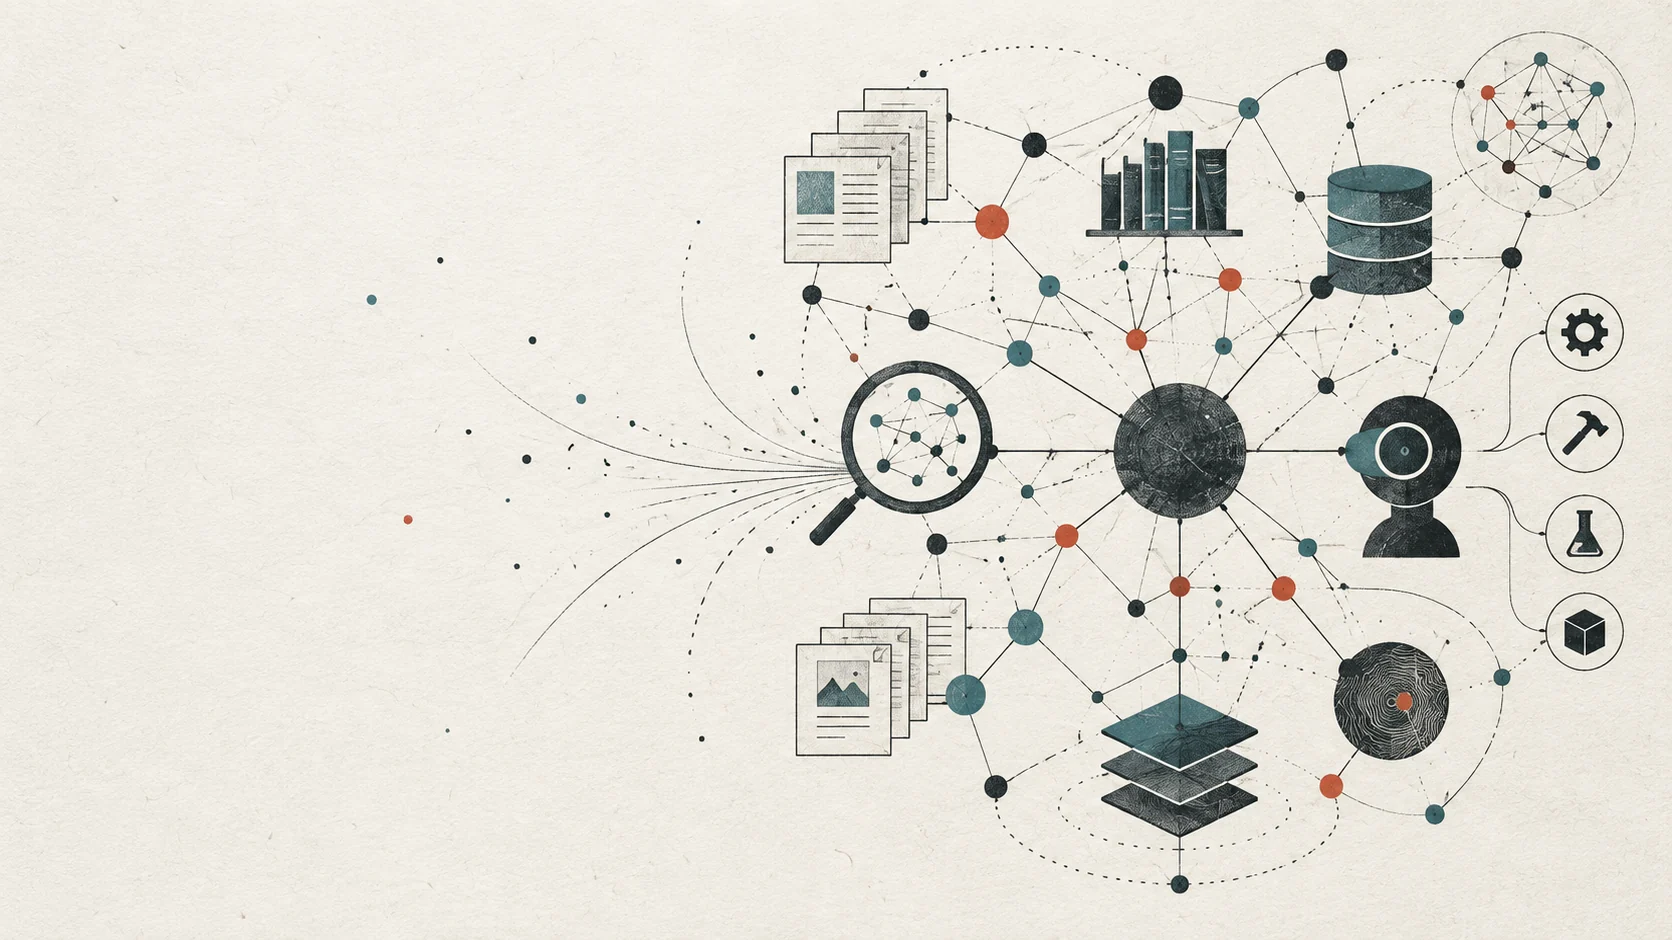
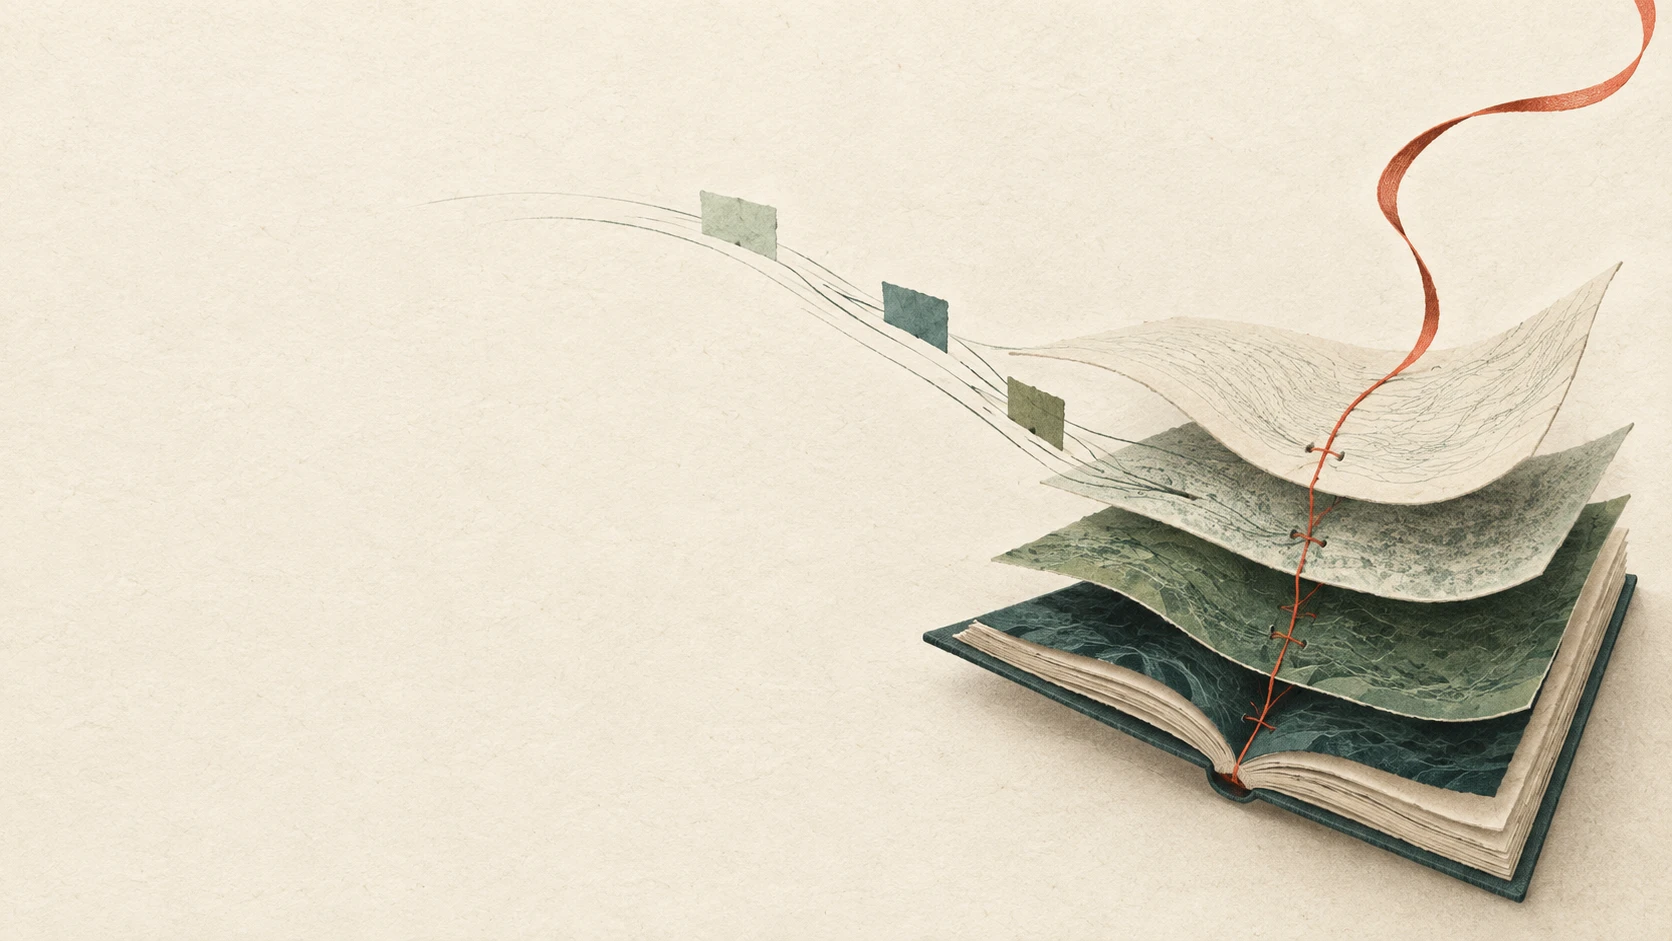
Use living folio homepage artwork

Changed region(s): [[0.3732, 0.0, 1.0, 1.0], [0.7775, 0.0309, 0.8086, 0.0926], [0.3421, 0.4628, 0.4043, 0.4936]]

diff --git a/docs/index.html b/docs/index.html
@@ -21,7 +21,7 @@
     <meta property="og:url" content="https://zxyangyu.github.io/" />
     <meta property="og:image" content="https://zxyangyu.github.io/assets/research-hero.webp" />
     <meta property="og:image:width" content="1672" />
-    <meta property="og:image:height" content="940" />
+    <meta property="og:image:height" content="941" />
     <meta name="twitter:card" content="summary_large_image" />
     <link rel="icon" href="assets/avatar.png" type="image/png" />
     <link rel="stylesheet" href="styles.css" />
@@ -65,7 +65,7 @@
     <main id="main-content">
       <section class="intro-section" id="top" aria-labelledby="intro-title">
         <picture class="intro-art" aria-hidden="true">
-          <img src="assets/research-hero.webp" alt="" width="1672" height="940" fetchpriority="high" />
+          <img src="assets/research-hero.webp" alt="" width="1672" height="941" fetchpriority="high" />
         </picture>
         <div class="intro shell">
           <div class="intro-copy">

diff --git a/docs/styles.css b/docs/styles.css
@@ -601,6 +601,12 @@ h1 {
   font-weight: 700;
 }
 
+@media (max-width: 1100px) {
+  .intro-art img {
+    opacity: 0.72;
+  }
+}
+
 @media (max-width: 820px) {
   .header-inner {
     min-height: auto;
